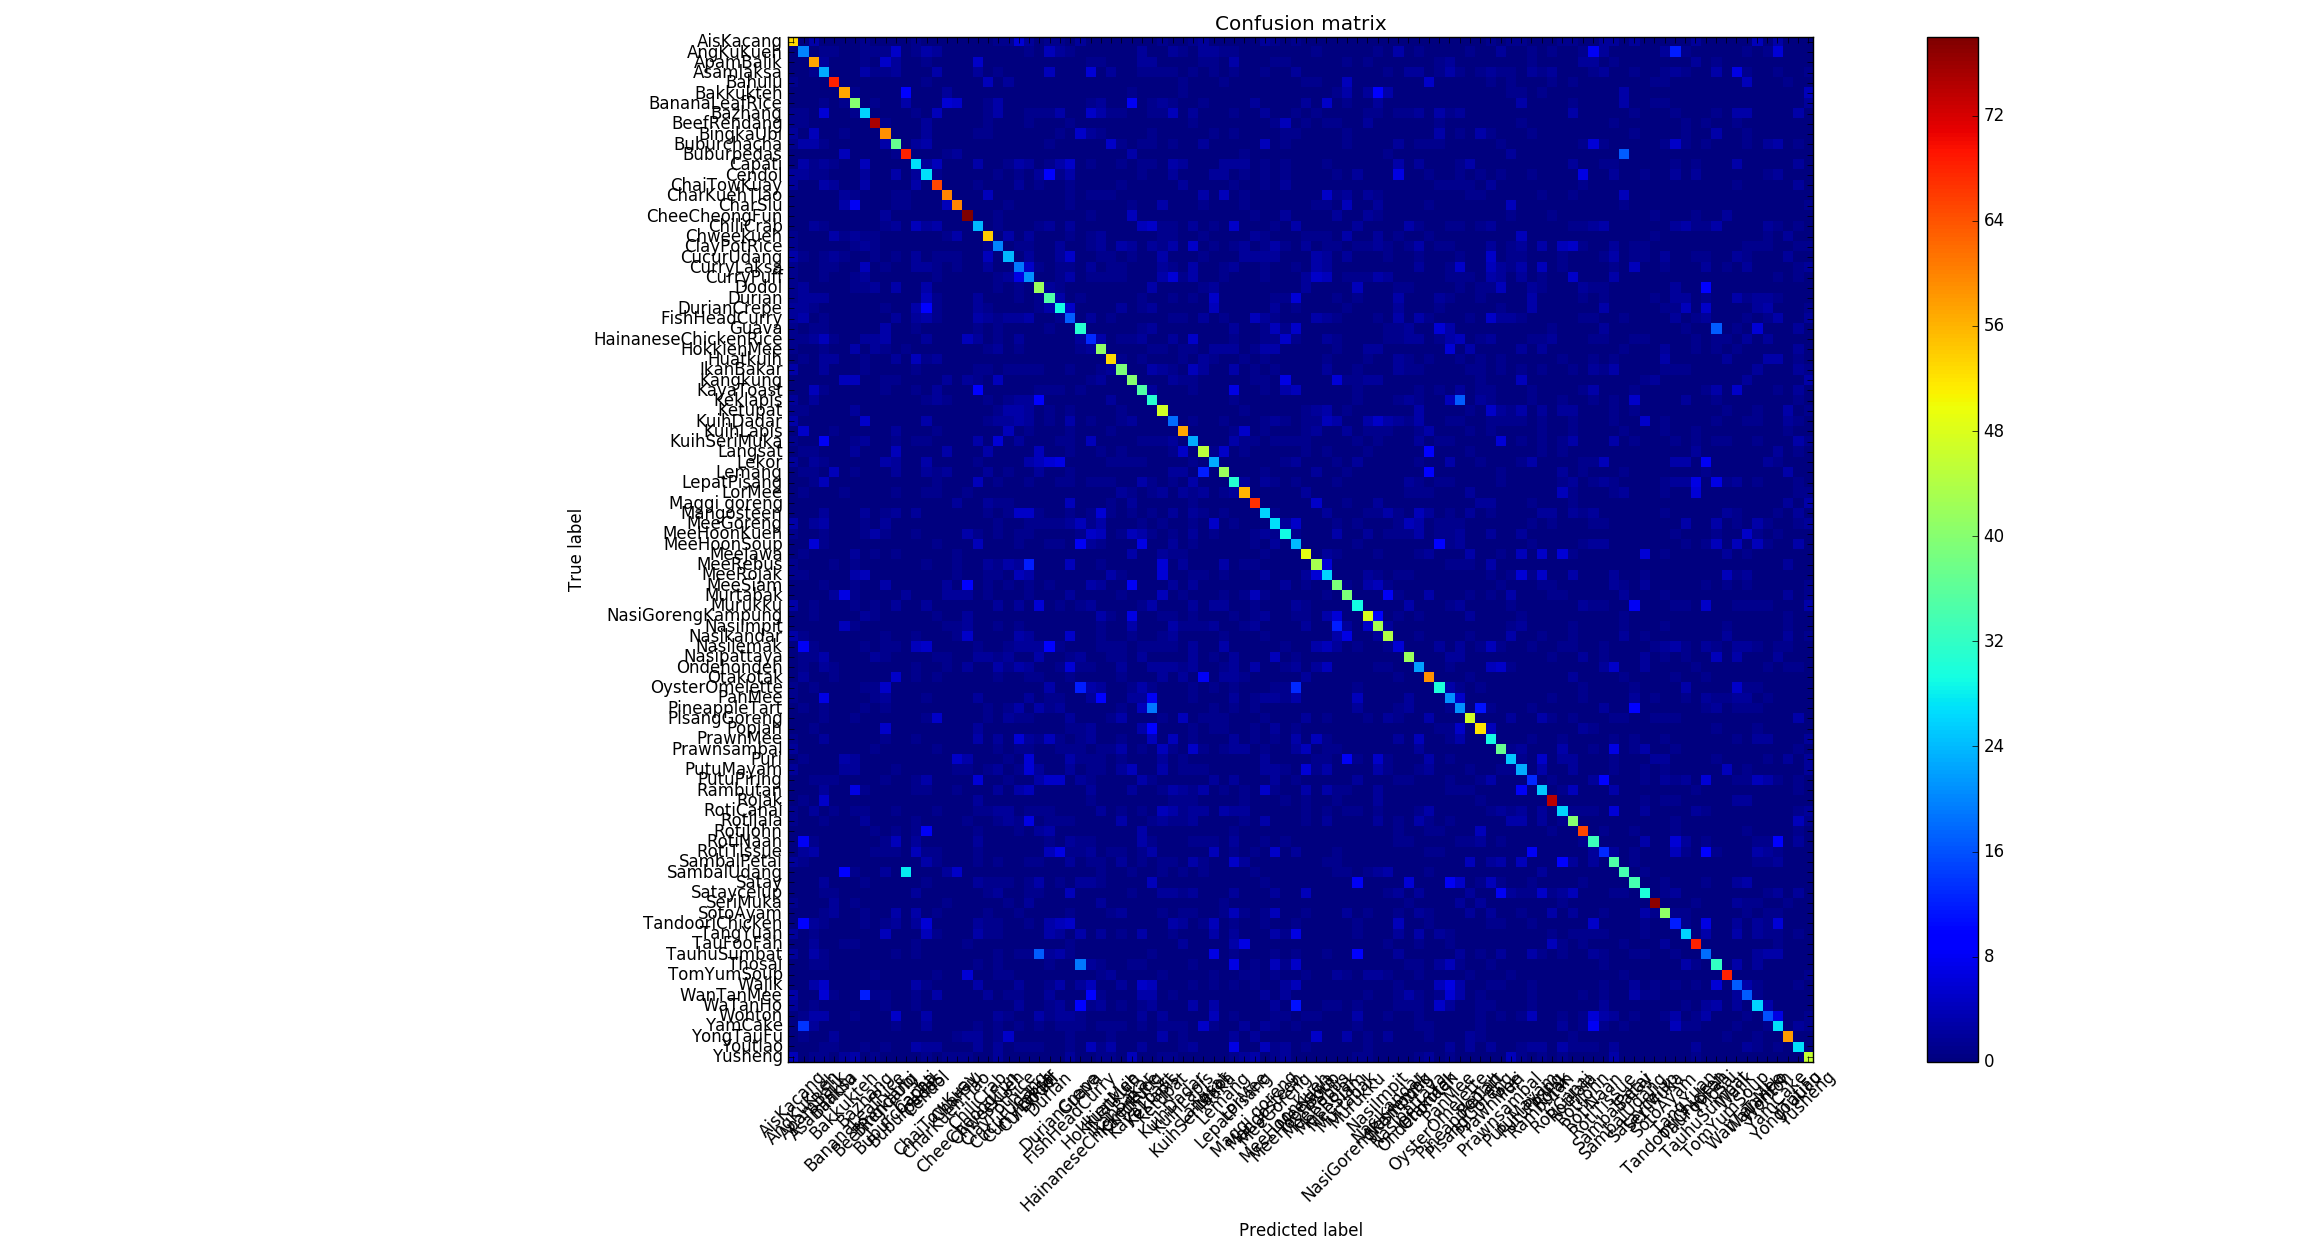
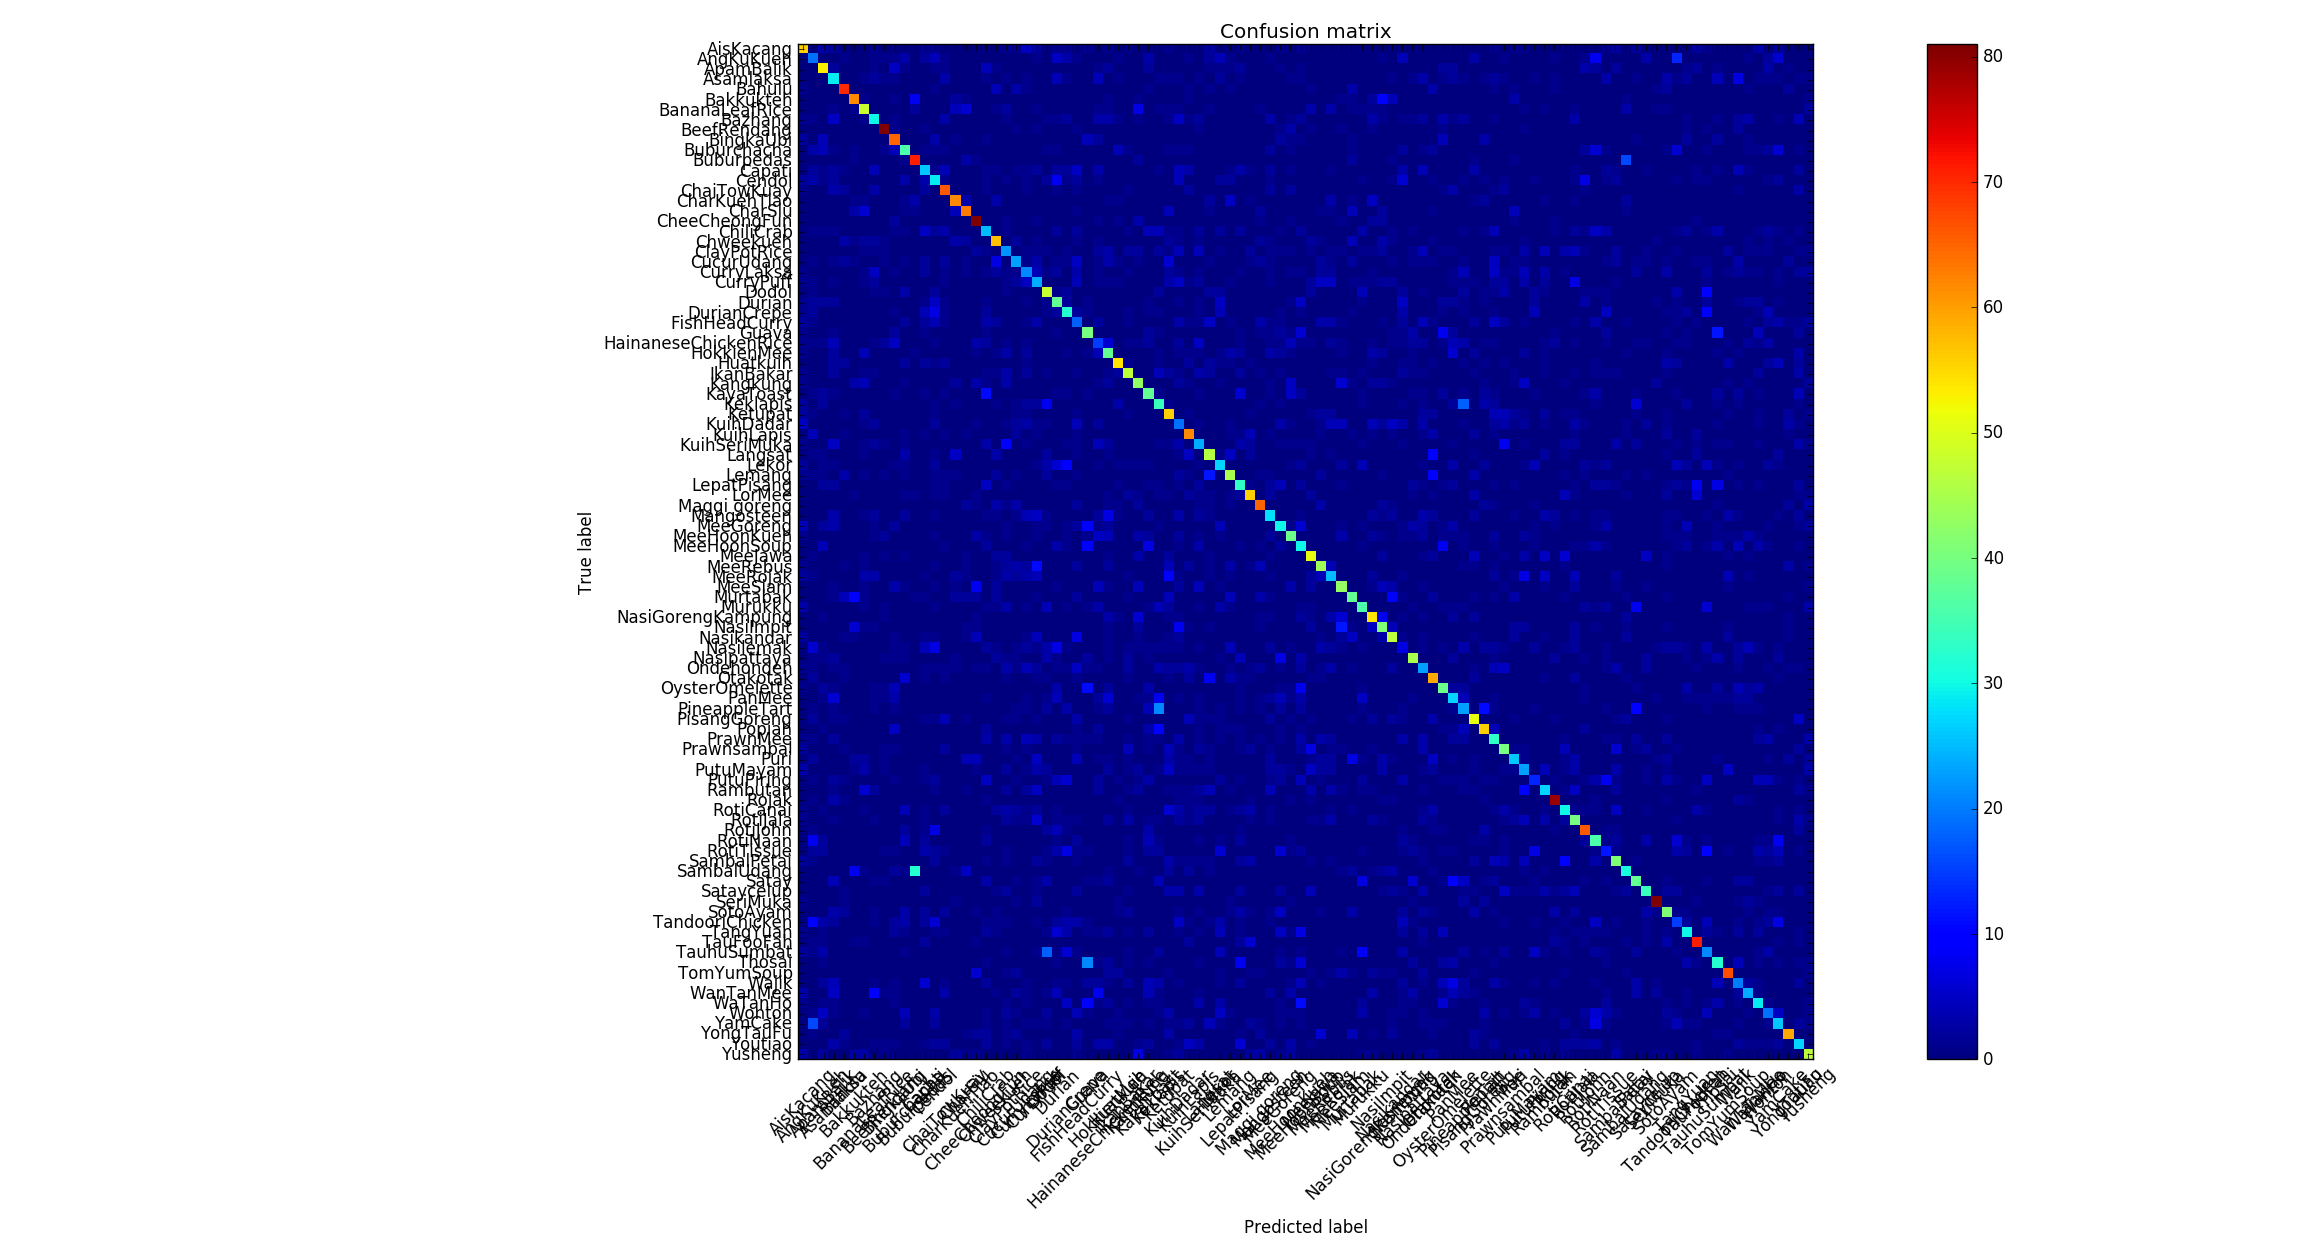
Fix categorial problem

diff --git a/hand-crafted/colorHistogram.py b/hand-crafted/colorHistogram.py
@@ -4,6 +4,10 @@
 # import the necessary packages
 from sklearn.neighbors import KNeighborsClassifier
 from sklearn.cross_validation import train_test_split
+from sklearn.cross_validation import StratifiedKFold
+from sklearn.metrics import confusion_matrix
+from sklearn import preprocessing
+import matplotlib.pyplot as plt
 from imutils import paths
 from sklearn import svm
 import numpy as np
@@ -11,6 +15,59 @@ import argparse
 import imutils
 import cv2
 import os
+
+def plot_confusion_matrix(cm, title='Confusion matrix', cmap=plt.cm.jet):
+    plt.imshow(cm, interpolation='nearest', cmap=cmap)
+    plt.title(title)
+    plt.colorbar()
+    tick_marks = np.arange(100)
+    plt.xticks(tick_marks, ['AisKacang' , 'AngKuKueh' , 'ApamBalik' , 'Asamlaksa' , 'Bahulu' , 'Bakkukteh',
+ 'BananaLeafRice' , 'Bazhang' , 'BeefRendang' , 'BingkaUbi' , 'Buburchacha',
+ 'Buburpedas' , 'Capati' , 'Cendol' , 'ChaiTowKuay' , 'CharKuehTiao' , 'CharSiu',
+ 'CheeCheongFun' , 'ChiliCrab' , 'Chweekueh' , 'ClayPotRice' , 'CucurUdang',
+ 'CurryLaksa' , 'CurryPuff' , 'Dodol' , 'Durian' , 'DurianCrepe' , 'FishHeadCurry',
+ 'Guava' , 'HainaneseChickenRice' , 'HokkienMee' , 'Huatkuih' , 'IkanBakar',
+ 'Kangkung' , 'KayaToast' , 'Keklapis' , 'Ketupat' , 'KuihDadar' , 'KuihLapis',
+ 'KuihSeriMuka' , 'Langsat' , 'Lekor' , 'Lemang' , 'LepatPisang' , 'LorMee',
+ 'Maggi goreng' , 'Mangosteen' , 'MeeGoreng' , 'MeeHoonKueh' , 'MeeHoonSoup',
+ 'MeeJawa' , 'MeeRebus' , 'MeeRojak' , 'MeeSiam' , 'Murtabak' , 'Murukku',
+ 'NasiGorengKampung' , 'NasiImpit' , 'Nasikandar' , 'Nasilemak' , 'Nasipattaya',
+ 'Ondehondeh' , 'Otakotak' , 'OysterOmelette' , 'PanMee' , 'PineappleTart',
+ 'PisangGoreng' , 'Popiah' , 'PrawnMee' , 'Prawnsambal' , 'Puri' , 'PutuMayam',
+ 'PutuPiring' , 'Rambutan' , 'Rojak' , 'RotiCanai' , 'RotiJala' , 'RotiJohn',
+ 'RotiNaan' , 'RotiTissue' , 'SambalPetai' , 'SambalUdang' , 'Satay' , 'Sataycelup',
+ 'SeriMuka' , 'SotoAyam' , 'TandooriChicken' , 'TangYuan' , 'TauFooFah',
+ 'TauhuSumbat' , 'Thosai' , 'TomYumSoup' , 'Wajik' , 'WanTanMee' , 'WaTanHo' , 'Wonton',
+ 'YamCake' , 'YongTauFu' , 'Youtiao' , 'Yusheng'], rotation=45)
+    plt.yticks(tick_marks, ['AisKacang' , 'AngKuKueh' , 'ApamBalik' , 'Asamlaksa' , 'Bahulu' , 'Bakkukteh',
+ 'BananaLeafRice' , 'Bazhang' , 'BeefRendang' , 'BingkaUbi' , 'Buburchacha',
+ 'Buburpedas' , 'Capati' , 'Cendol' , 'ChaiTowKuay' , 'CharKuehTiao' , 'CharSiu',
+ 'CheeCheongFun' , 'ChiliCrab' , 'Chweekueh' , 'ClayPotRice' , 'CucurUdang',
+ 'CurryLaksa' , 'CurryPuff' , 'Dodol' , 'Durian' , 'DurianCrepe' , 'FishHeadCurry',
+ 'Guava' , 'HainaneseChickenRice' , 'HokkienMee' , 'Huatkuih' , 'IkanBakar',
+ 'Kangkung' , 'KayaToast' , 'Keklapis' , 'Ketupat' , 'KuihDadar' , 'KuihLapis',
+ 'KuihSeriMuka' , 'Langsat' , 'Lekor' , 'Lemang' , 'LepatPisang' , 'LorMee',
+ 'Maggi goreng' , 'Mangosteen' , 'MeeGoreng' , 'MeeHoonKueh' , 'MeeHoonSoup',
+ 'MeeJawa' , 'MeeRebus' , 'MeeRojak' , 'MeeSiam' , 'Murtabak' , 'Murukku',
+ 'NasiGorengKampung' , 'NasiImpit' , 'Nasikandar' , 'Nasilemak' , 'Nasipattaya',
+ 'Ondehondeh' , 'Otakotak' , 'OysterOmelette' , 'PanMee' , 'PineappleTart',
+ 'PisangGoreng' , 'Popiah' , 'PrawnMee' , 'Prawnsambal' , 'Puri' , 'PutuMayam',
+ 'PutuPiring' , 'Rambutan' , 'Rojak' , 'RotiCanai' , 'RotiJala' , 'RotiJohn',
+ 'RotiNaan' , 'RotiTissue' , 'SambalPetai' , 'SambalUdang' , 'Satay' , 'Sataycelup',
+ 'SeriMuka' , 'SotoAyam' , 'TandooriChicken' , 'TangYuan' , 'TauFooFah',
+ 'TauhuSumbat' , 'Thosai' , 'TomYumSoup' , 'Wajik' , 'WanTanMee' , 'WaTanHo' , 'Wonton',
+ 'YamCake' , 'YongTauFu' , 'Youtiao' , 'Yusheng'])
+    plt.tight_layout()
+    plt.ylabel('True label')
+    plt.xlabel('Predicted label')
+
+def autolabel(rects):
+    # attach some text labels
+    for rect in rects:
+        height = rect.get_height()
+        plt.text(rect.get_x() + rect.get_width()/2., 1.05*height,
+                '%d' % int(height),
+                ha='center', va='bottom')
 
 def image_to_feature_vector(image, size=(32, 32)):
 	# resize the image to a fixed size, then flatten the image into
@@ -63,52 +120,145 @@ for (i, imagePath) in enumerate(imagePaths):
 	imagePath = imagePath.replace('\\', '')
 
 	image = cv2.imread(imagePath)
-	label = imagePath.split(os.path.sep)[-1].split("(")[0]
-
+	label = imagePath.split(os.path.sep)[-1].split("(")[0].replace(' ', '')
 	# extract raw pixel intensity "features", followed by a color
 	# histogram to characterize the color distribution of the pixels
 	# in the image
-	pixels = image_to_feature_vector(image)
+	#pixels = image_to_feature_vector(image)
 	hist = extract_color_histogram(image)
 
 	# update the raw images, features, and labels matricies,
 	# respectively
-	rawImages.append(pixels)
+	#rawImages.append(pixels)
 	features.append(hist)
 	labels.append(label)
 
-	# show an update every 1,000 images
-	if i > 0 and i % 1000 == 0:
+	# show an update every 200 images
+	if i > 0 and i % 200 == 0:
 		print("[INFO] processed {}/{}".format(i, len(imagePaths)))
 
-# show some information on the memory consumed by the raw images
-# matrix and features matrix
-rawImages = np.array(rawImages)
+
 features = np.array(features)
 labels = np.array(labels)
-print("[INFO] pixels matrix: {:.2f}MB".format(
-	rawImages.nbytes / (1024 * 1000.0)))
+
+le = preprocessing.LabelEncoder()
+le.fit(labels)
+labels = le.transform(labels)
+print labels
+
 print("[INFO] features matrix: {:.2f}MB".format(
 	features.nbytes / (1024 * 1000.0)))
 
-# partition the data into training and testing splits, using 75%
-# of the data for training and the remaining 25% for testing
-(trainRI, testRI, trainRL, testRL) = train_test_split(
-	rawImages, labels, test_size=0.25, random_state=42)
-(trainFeat, testFeat, trainLabels, testLabels) = train_test_split(
-	features, labels, test_size=0.25, random_state=42)
 
-# train and evaluate a svm classifer on the raw pixel intensities
-print("[INFO] evaluating raw pixel accuracy...")
-model = svm.SVC(kernel='linear', probability=True)
-model.fit(trainRI, trainRL)
-acc = model.score(testRI, testRL)
-print("[INFO] raw pixel accuracy: {:.2f}%".format(acc * 100))
 
-# train and evaluate a svm classifer on the histogram
-# representations
-print("[INFO] evaluating histogram accuracy...")
-model = svm.SVC(kernel='linear', probability=True)
-model.fit(trainFeat, trainLabels)
-acc = model.score(testFeat, testLabels)
-print("[INFO] histogram accuracy: {:.2f}%".format(acc * 100))
+# Training
+k = 2
+sfold = StratifiedKFold(labels, n_folds=k)
+
+total_score = 0
+fold_count = 1
+
+for train_index, test_index in sfold:
+    print "Training SVM.."
+    train_data, test_data = features[train_index], features[test_index]
+    train_label, test_label = labels[train_index], labels[test_index]
+
+    clf = svm.SVC(kernel='linear', C=1.0, probability=True)
+    clf.fit(train_data, train_label)
+    y_pred = clf.predict(test_data)
+
+    # Compute confusion matrix
+    cm = confusion_matrix(test_label, y_pred)
+    np.set_printoptions(precision=2)
+    #print('Confusion matrix, without normalization')
+    #print(cm)
+    plt.figure()
+    plot_confusion_matrix(cm)
+
+    # Normalize the confusion matrix by row (i.e by the number of samples
+    # in each class)
+    cm_normalized = cm.astype('float') / cm.sum(axis=1)[:, np.newaxis]
+    #print('Normalized confusion matrix')
+    #print(cm_normalicd pzed)
+    plt.figure()
+    plot_confusion_matrix(cm_normalized, title='Normalized confusion matrix')
+
+    plt.show()
+
+
+    score = clf.score(test_data,test_label)
+    print "Acc for fold ", fold_count, "= ", score
+
+    scores = clf.predict_proba(test_data)
+    n = 5
+    indices = np.argsort(scores)[:,:-n-1:-1]
+
+    # Get accuracy
+    top1 = 0.0
+    top5 = 0.0
+
+    correct_predict_top1 = np.zeros((100,), dtype=np.int)
+    correct_predict_top5 = np.zeros((100,), dtype=np.int)
+
+    for image_index, index_list in enumerate(indices):
+        if test_label[image_index] == index_list[0]:
+            top1 += 1.0
+        if test_label[image_index] in index_list:
+            top5 += 1.0
+
+    image_index = None
+    index_list = None
+    start_index = 0
+    end_index = 99
+
+    for class_label in range(0,100):
+        for image_index in range(start_index,end_index+1):
+            if test_label[image_index] == indices[image_index][0]:
+                correct_predict_top1[class_label] += 1
+            if test_label[image_index] in indices[image_index]:
+                correct_predict_top5[class_label] += 1
+        start_index += 100
+        end_index += 100
+
+    print correct_predict_top1
+    print correct_predict_top5
+
+    objects = ['AisKacang' , 'AngKuKueh' , 'ApamBalik' , 'Asamlaksa' , 'Bahulu' , 'Bakkukteh',
+     'BananaLeafRice' , 'Bazhang' , 'BeefRendang' , 'BingkaUbi' , 'Buburchacha',
+     'Buburpedas' , 'Capati' , 'Cendol' , 'ChaiTowKuay' , 'CharKuehTiao' , 'CharSiu',
+     'CheeCheongFun' , 'ChiliCrab' , 'Chweekueh' , 'ClayPotRice' , 'CucurUdang',
+     'CurryLaksa' , 'CurryPuff' , 'Dodol' , 'Durian' , 'DurianCrepe' , 'FishHeadCurry',
+     'Guava' , 'HainaneseChickenRice' , 'HokkienMee' , 'Huatkuih' , 'IkanBakar',
+     'Kangkung' , 'KayaToast' , 'Keklapis' , 'Ketupat' , 'KuihDadar' , 'KuihLapis',
+     'KuihSeriMuka' , 'Langsat' , 'Lekor' , 'Lemang' , 'LepatPisang' , 'LorMee',
+     'Maggi goreng' , 'Mangosteen' , 'MeeGoreng' , 'MeeHoonKueh' , 'MeeHoonSoup',
+     'MeeJawa' , 'MeeRebus' , 'MeeRojak' , 'MeeSiam' , 'Murtabak' , 'Murukku',
+     'NasiGorengKampung' , 'NasiImpit' , 'Nasikandar' , 'Nasilemak' , 'Nasipattaya',
+     'Ondehondeh' , 'Otakotak' , 'OysterOmelette' , 'PanMee' , 'PineappleTart',
+     'PisangGoreng' , 'Popiah' , 'PrawnMee' , 'Prawnsambal' , 'Puri' , 'PutuMayam',
+     'PutuPiring' , 'Rambutan' , 'Rojak' , 'RotiCanai' , 'RotiJala' , 'RotiJohn',
+     'RotiNaan' , 'RotiTissue' , 'SambalPetai' , 'SambalUdang' , 'Satay' , 'Sataycelup',
+     'SeriMuka' , 'SotoAyam' , 'TandooriChicken' , 'TangYuan' , 'TauFooFah',
+     'TauhuSumbat' , 'Thosai' , 'TomYumSoup' , 'Wajik' , 'WanTanMee' , 'WaTanHo' , 'Wonton',
+     'YamCake' , 'YongTauFu' , 'Youtiao' , 'Yusheng']
+    y_pos = np.arange(len(objects))
+    performance = correct_predict_top1
+
+    rects1 = plt.bar(y_pos, performance)
+    plt.xticks(y_pos, objects, rotation='vertical')
+    plt.ylabel('Total true positive')
+    plt.title('Total true positive per sample')
+
+    autolabel(rects1)
+    plt.savefig('barchart_deep_feaures'+ str(fold_count) +'.png')
+    plt.show()
+
+    print correct_predict_top1
+    print correct_predict_top5
+
+    print('Top-1 Accuracy: ' + str(top1 / len(test_label) * 100.0) + '%')
+    print('Top-5 Accuracy: ' + str(top5 / len(test_label) * 100.0) + '%')
+    total_score = total_score + top1 / len(test_label)
+    fold_count = fold_count + 1
+
+print "Accuracy : ", total_score/k
